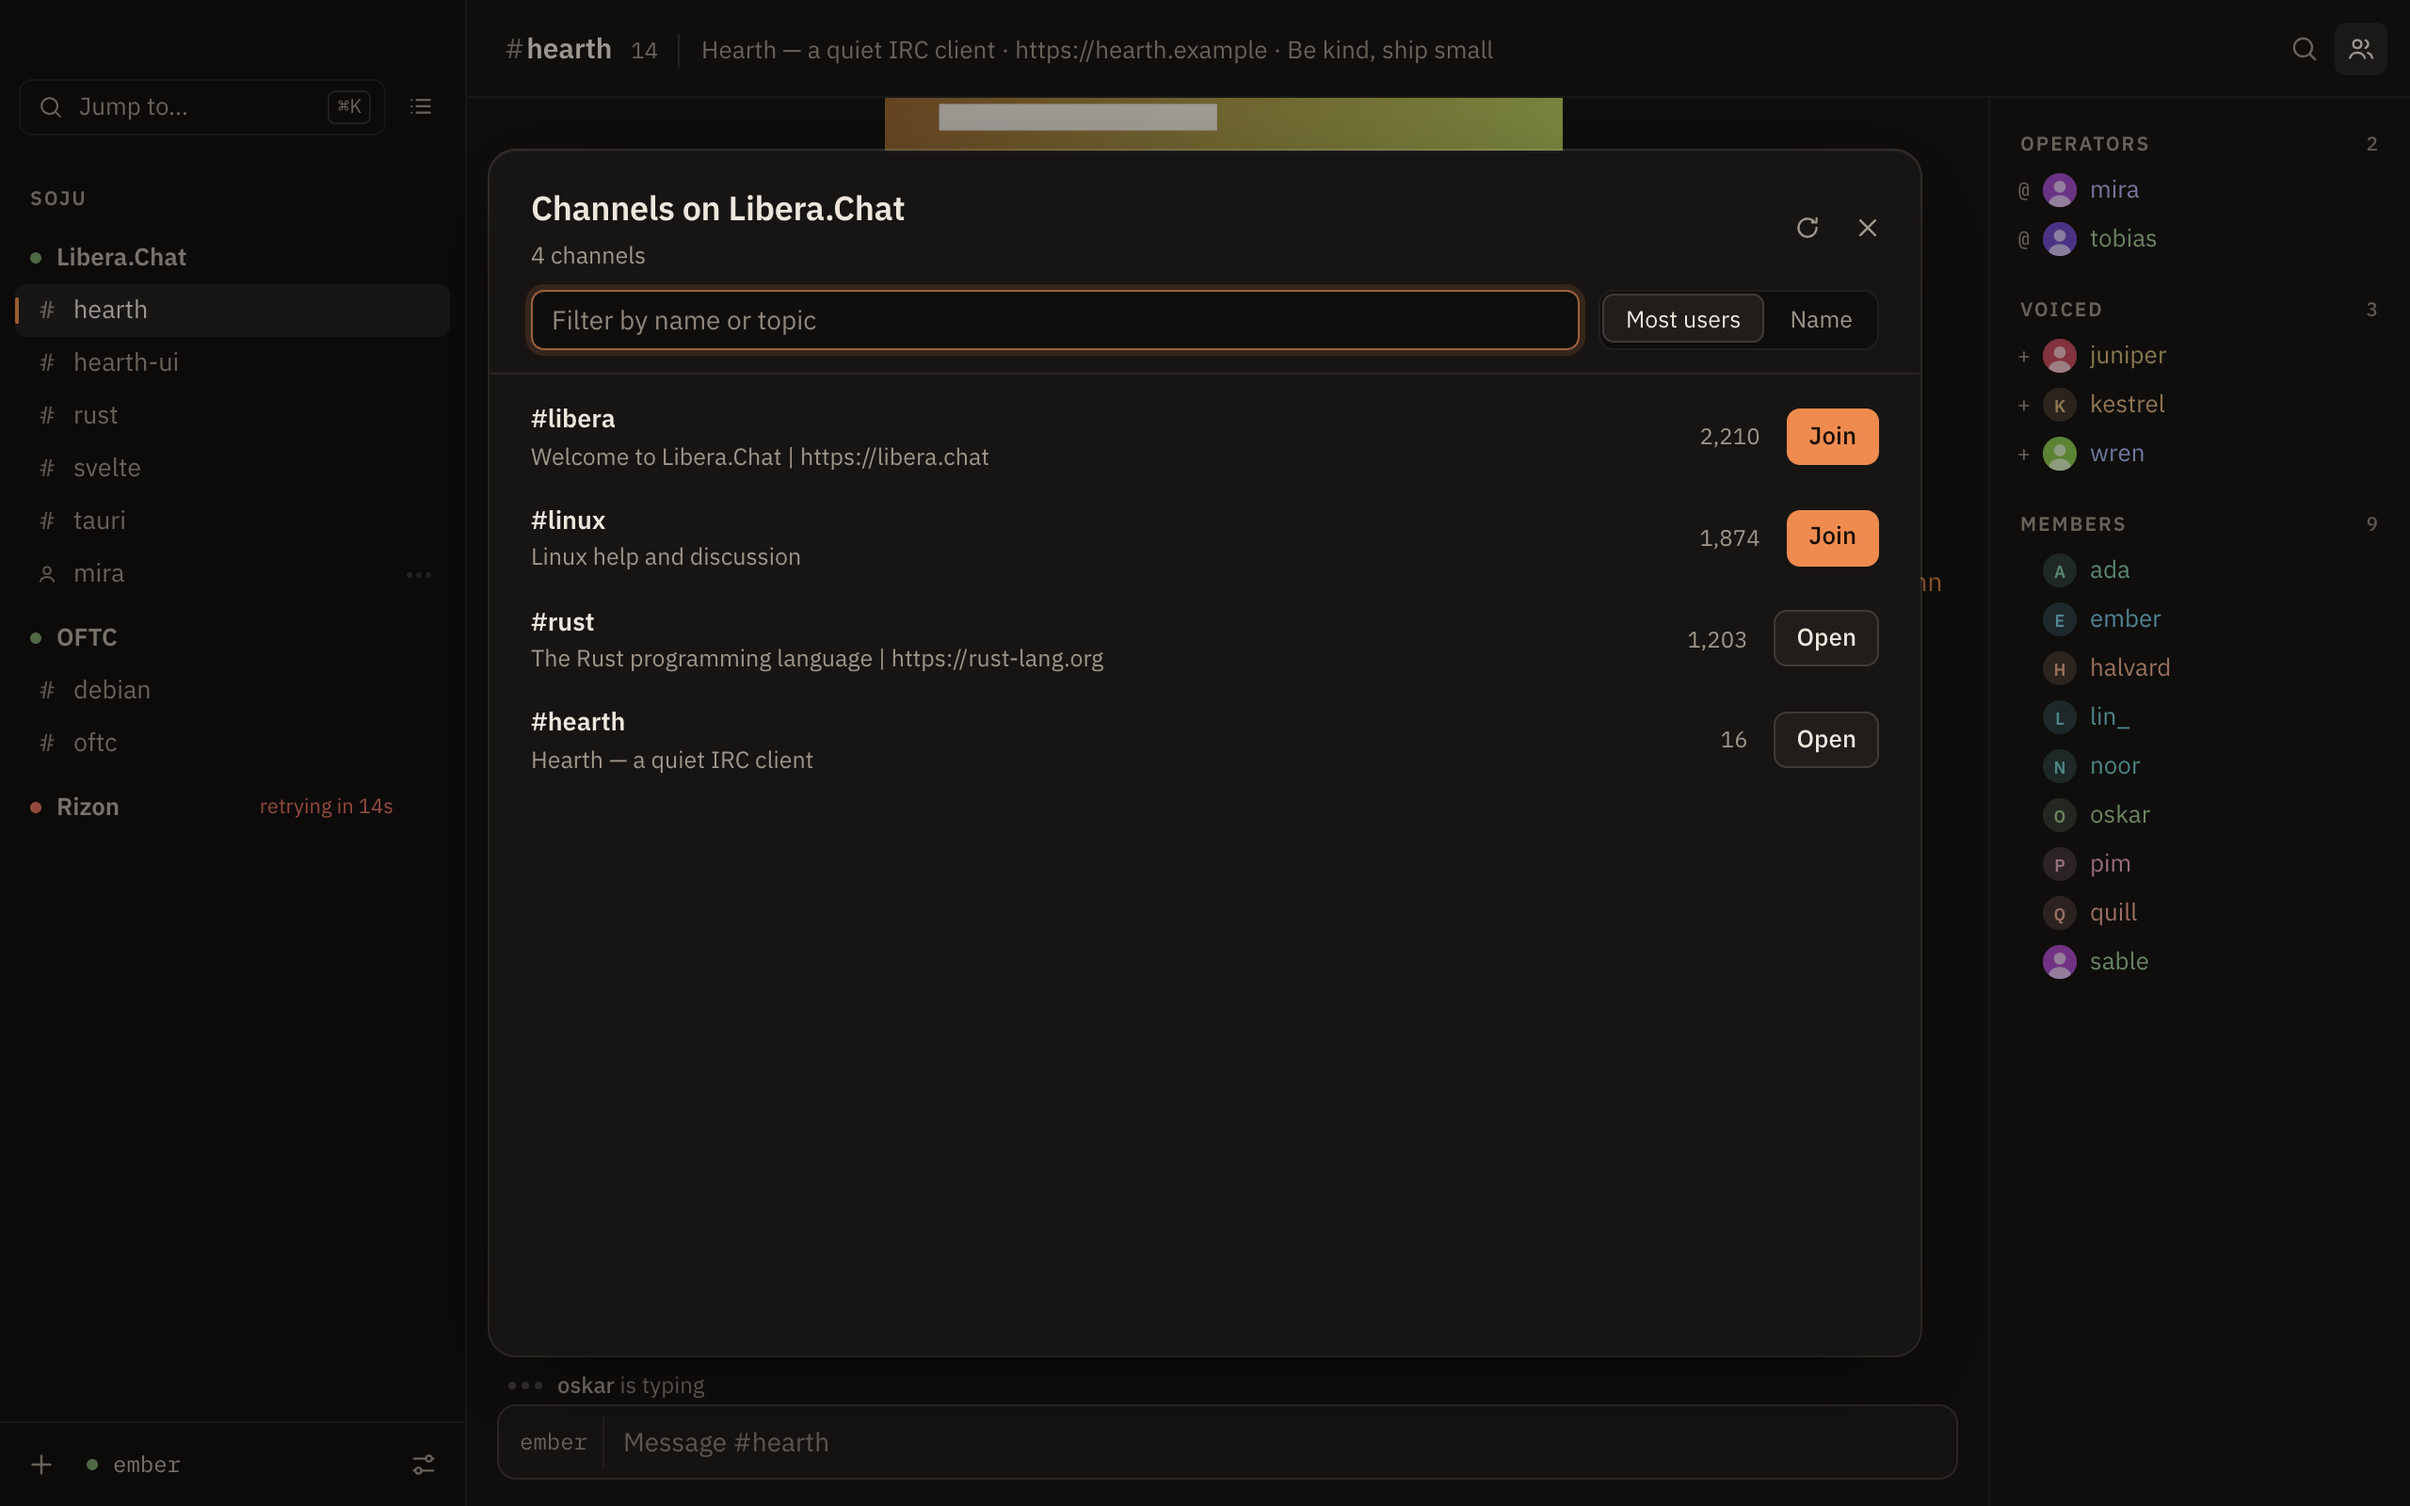
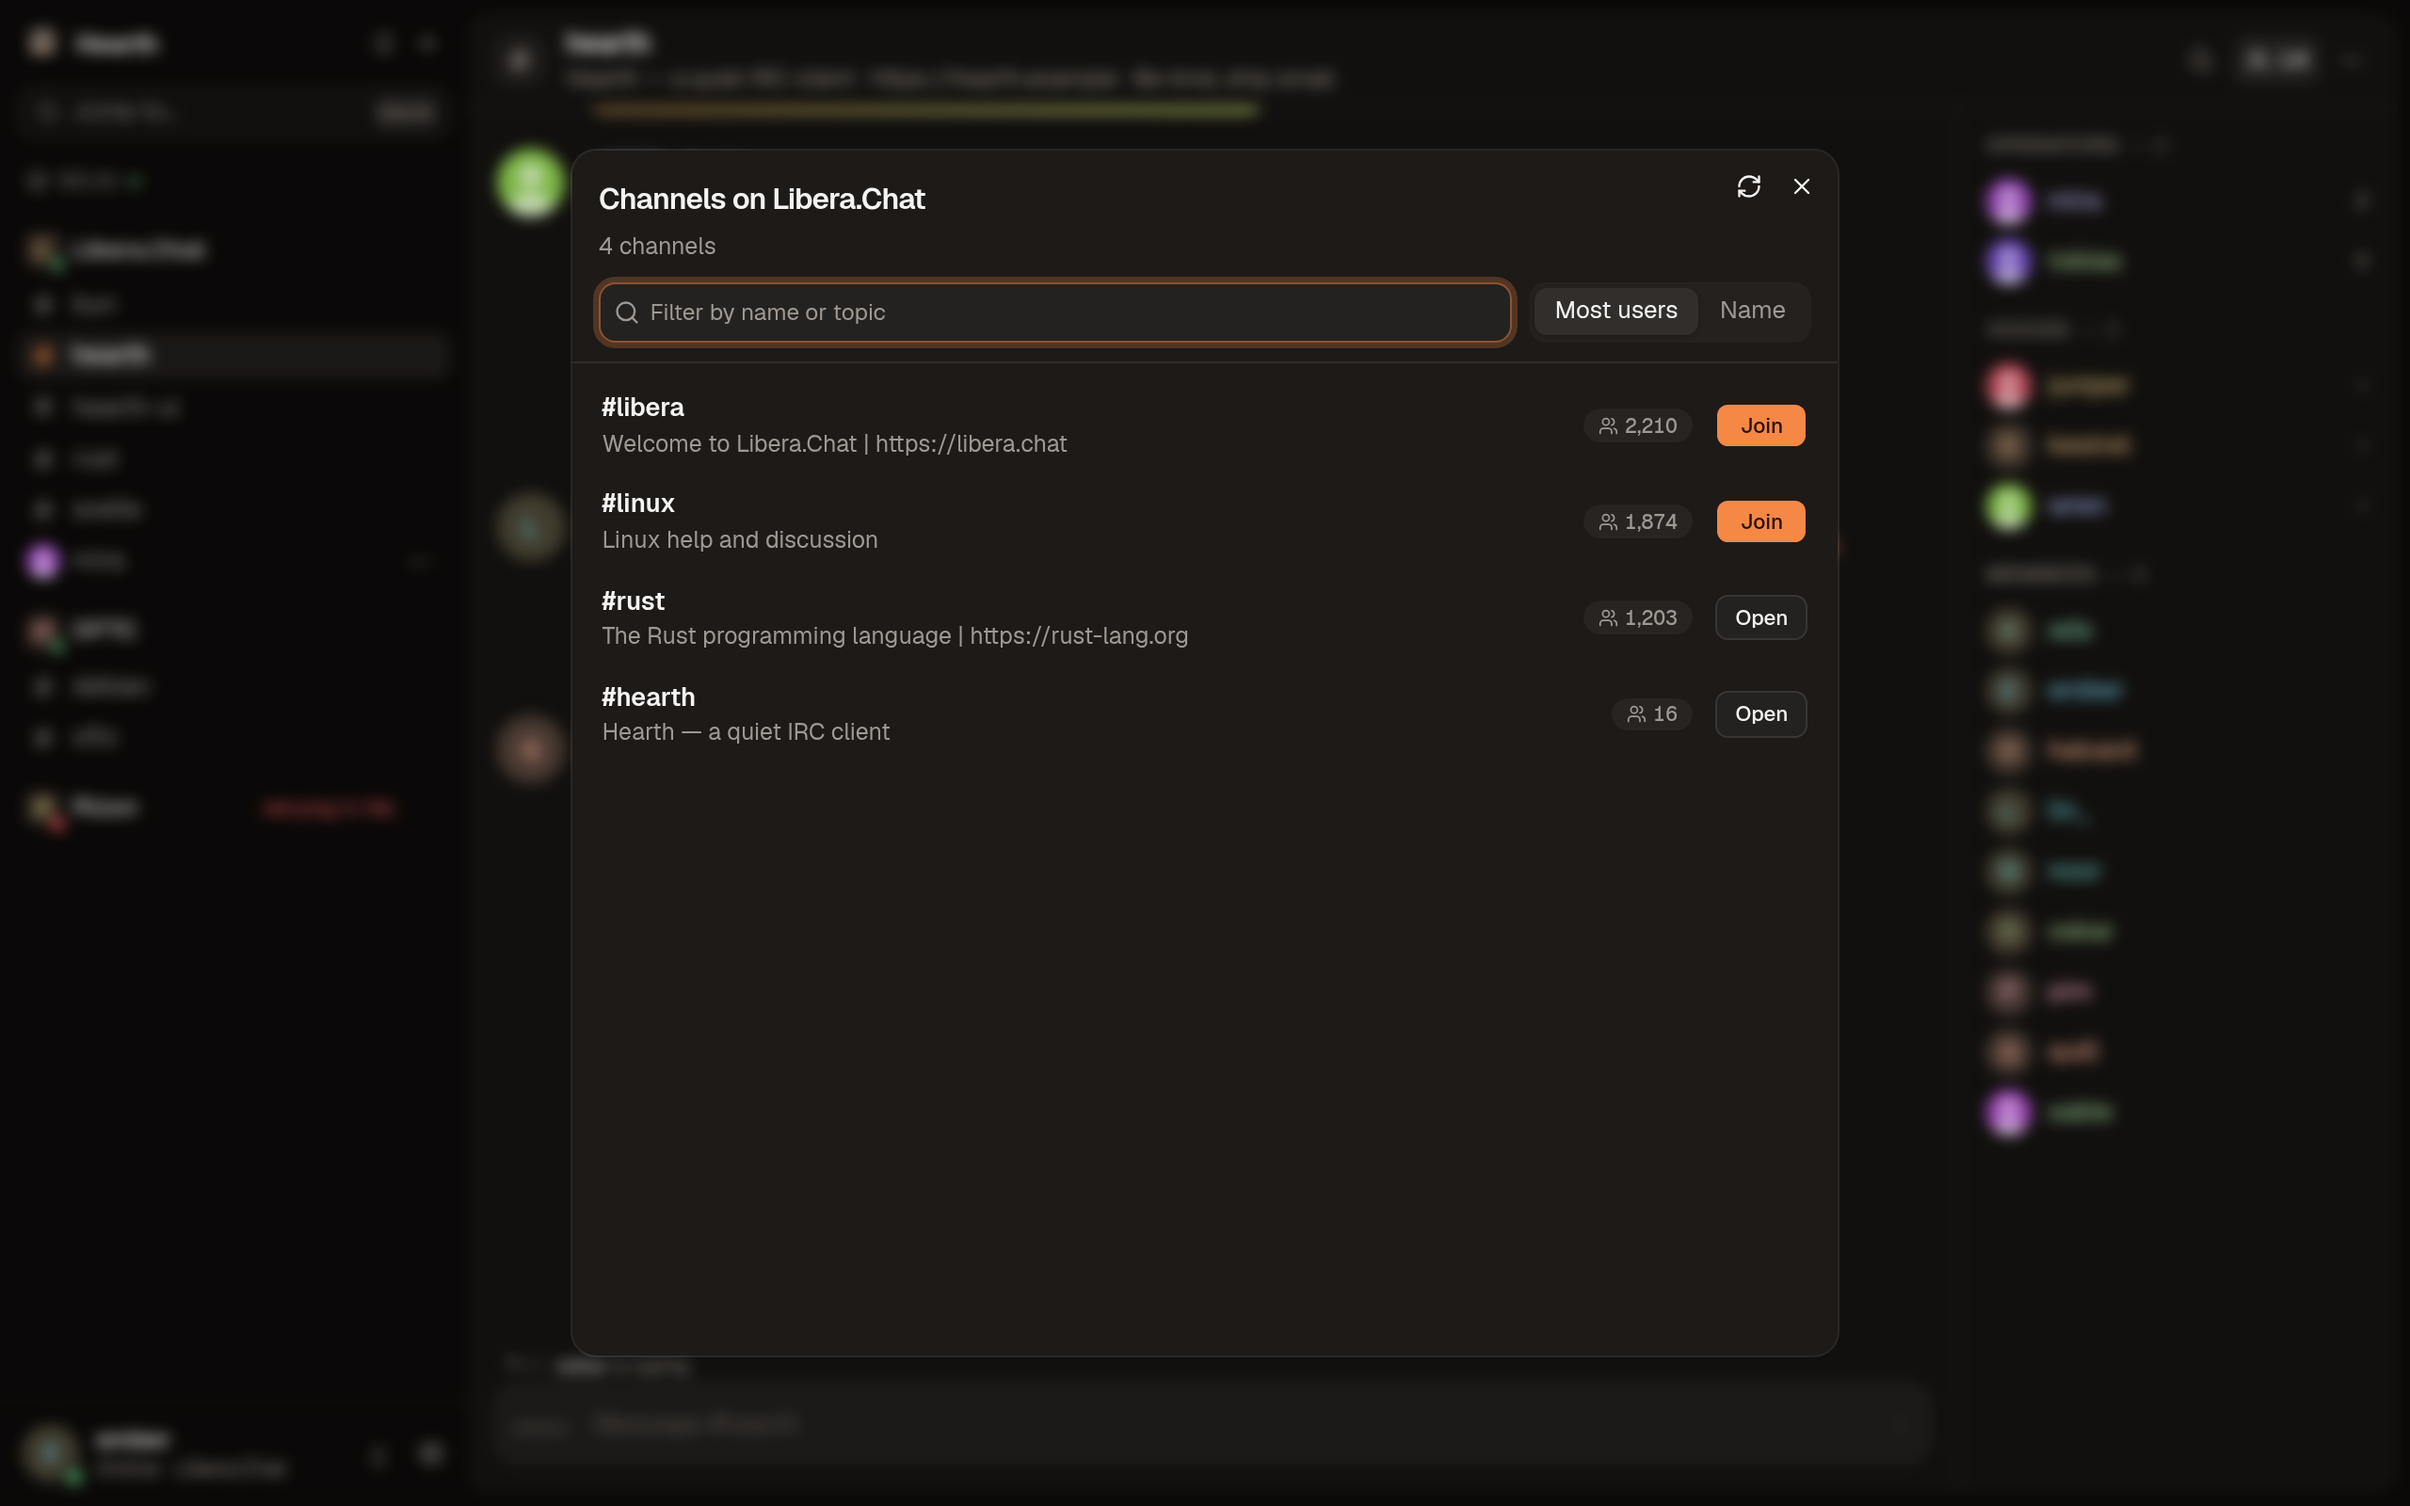
docs: refresh screenshots for the new design

diff --git a/README.md b/README.md
@@ -41,11 +41,11 @@ Hearth updates itself: new versions show up under Settings › General.
 <table>
   <tr>
     <td><img src="docs/screenshots/chat-light.png" alt="Light theme"></td>
-    <td><img src="docs/screenshots/compact.png" alt="Compact layout with avatars"></td>
+    <td><img src="docs/screenshots/columns.png" alt="Columns layout with nicks in a gutter"></td>
   </tr>
   <tr>
     <td align="center">Light theme</td>
-    <td align="center">Compact layout</td>
+    <td align="center">Columns layout</td>
   </tr>
   <tr>
     <td><img src="docs/screenshots/search.png" alt="Message search across every buffer"></td>
@@ -101,7 +101,7 @@ Hearth updates itself: new versions show up under Settings › General.
   - Collapsed join/part/quit runs.
   - WHOIS results shown as cards.
   - Collapsible MOTD.
-- **Layouts:** "columns", with nicks aligned in a gutter, or "compact", with nicks above grouped messages. Light, dark and system themes. Adjustable text size.
+- **Layouts:** "modern", with avatars and each sender's messages grouped; "columns", with nicks aligned in a gutter; or "compact", with nicks above grouped messages. Light, dark and system themes. Adjustable text size.
 - **Reliability:**
   - Automatic reconnect with exponential backoff and keepalive pings.
   - Channels you were in are rejoined after reconnecting.
@@ -152,7 +152,7 @@ bun run probe          # headless smoke test of the backend against a real serve
 
 `electrobun prepare` (run for you by `install`, `start` and `build`) projects the Electrobun SDK into `.hutch/devkit`, which is git-ignored; the UI and backend type-check against it.
 
-When `bun run dev` runs in a plain browser instead of inside the app, Hearth replays a scripted IRC session from `src/lib/mock.ts`. This lets you work on the UI without a server. Query parameters control the preview: `?theme=light`, `?layout=compact`, `?view=settings`, `?view=switcher`, `?view=search`, `?view=channels`, `?view=shortcuts`, `?tab=privacy` (open a Settings tab; add `&server=<id>` to edit a server), `?update=none` (the mock updater reports no update; by default it offers 0.2.0), `?empty` (first-run screen) and `?stress` (a `#stress` channel with about 10k lines of scrollback and 5k members, for performance work; `?stress=live` adds a new line every 3 seconds).
+When `bun run dev` runs in a plain browser instead of inside the app, Hearth replays a scripted IRC session from `src/lib/mock.ts`. This lets you work on the UI without a server. Query parameters control the preview: `?theme=light`, `?layout=columns|compact`, `?view=settings`, `?view=switcher`, `?view=search`, `?view=channels`, `?view=shortcuts`, `?tab=privacy` (open a Settings tab; add `&server=<id>` to edit a server), `?update=none` (the mock updater reports no update; by default it offers 0.2.0), `?empty` (first-run screen) and `?stress` (a `#stress` channel with about 10k lines of scrollback and 5k members, for performance work; `?stress=live` adds a new line every 3 seconds).
 
 `bun run start` uses the same config and log directories as an installed Hearth (the identifier is still `app.hearth.irc`, so existing installs carry over). Set `HEARTH_CONFIG_DIR` and `HEARTH_DATA_DIR` to point a development run at throwaway data instead.
 

diff --git a/AGENTS.md b/AGENTS.md
@@ -70,4 +70,4 @@ CI (`.github/workflows/ci.yml`) runs check and both test suites on Linux/macOS/W
 
 - **Frontend:** `src/lib/test-utils.ts` provides `mockApi`, `connect(app, {caps, isupport})`, `feed(app, ...rawLines)` and `sent` (outgoing lines). Mock `./api` and `./notify` with `vi.mock` as in `state.test.ts`, and test behaviour by feeding raw IRC lines.
 - **Backend:** `src/bun/core/*.test.ts` (bun test) run the actor against a scripted local TCP server (`harness.ts`, `Peer`/`Listener`). Add a test there for protocol changes such as CAP, SASL, batches or labels. Use `ManualClock` for backoff, keepalive and pacing.
-- **UI changes:** check them visually with `bun run dev`. The mock query params `?view=search|channels|settings|switcher|shortcuts`, `?tab=<settings tab>&server=<id>`, `?theme=light`, `?layout=compact`, `?update=none` and `?empty` open the matching views; `?noavatars` turns off mock avatars. `?stress` opens `#stress`, a channel with about 10k lines and 5k members, for checking performance. `?stress=live` also posts a line every 3 s.
+- **UI changes:** check them visually with `bun run dev`. The mock query params `?view=search|channels|settings|switcher|shortcuts`, `?tab=<settings tab>&server=<id>`, `?theme=light`, `?layout=columns|compact`, `?update=none` and `?empty` open the matching views; `?noavatars` turns off mock avatars. `?stress` opens `#stress`, a channel with about 10k lines and 5k members, for checking performance. `?stress=live` also posts a line every 3 s.
